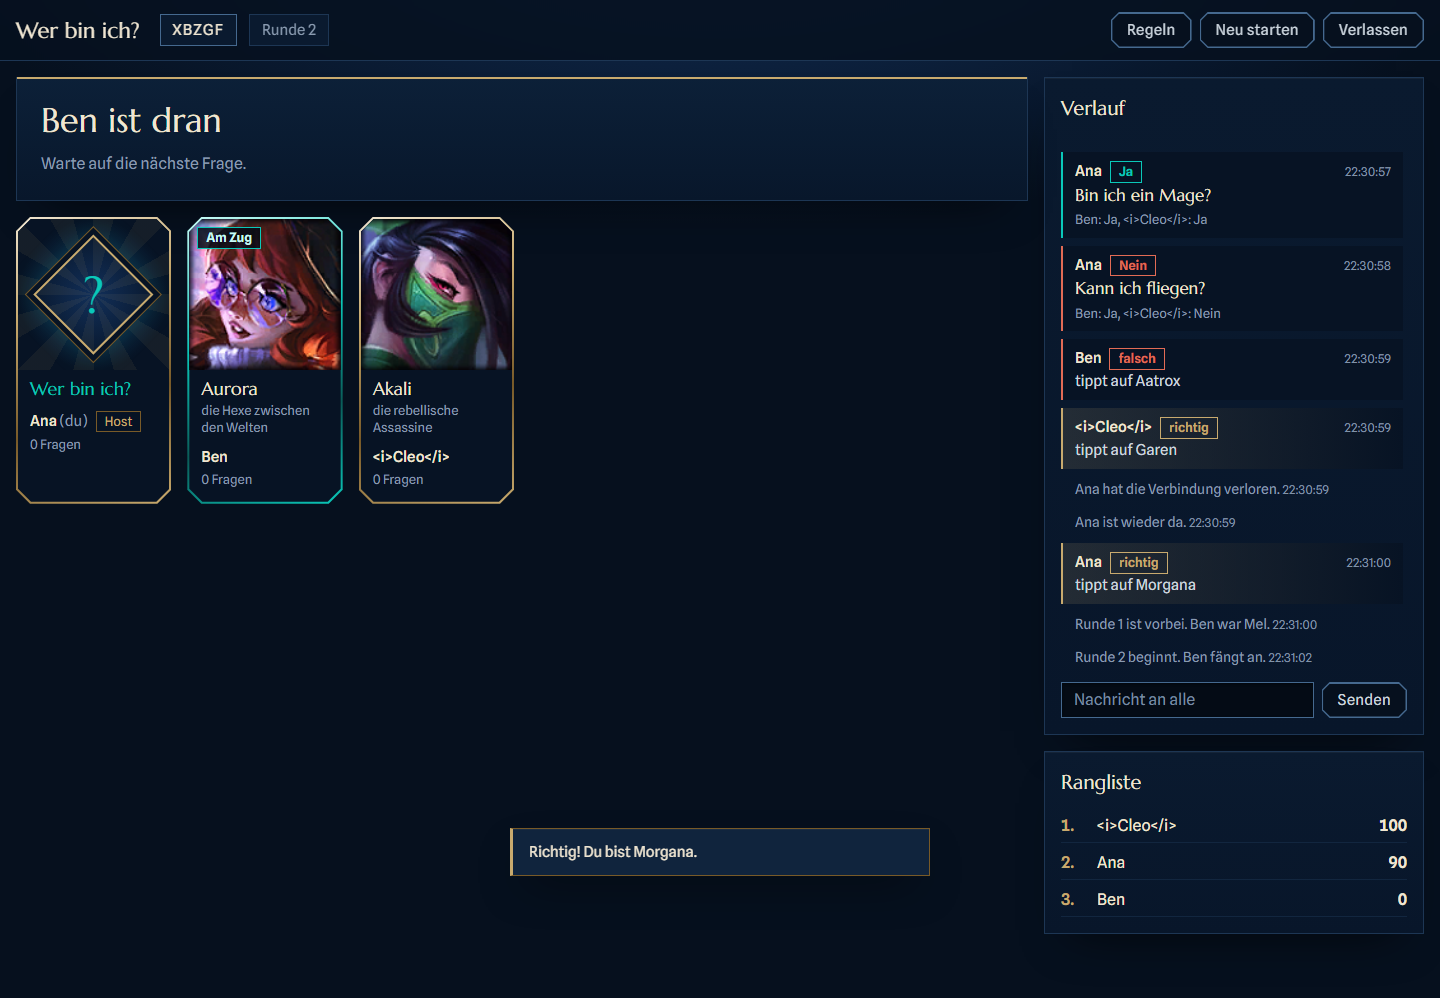
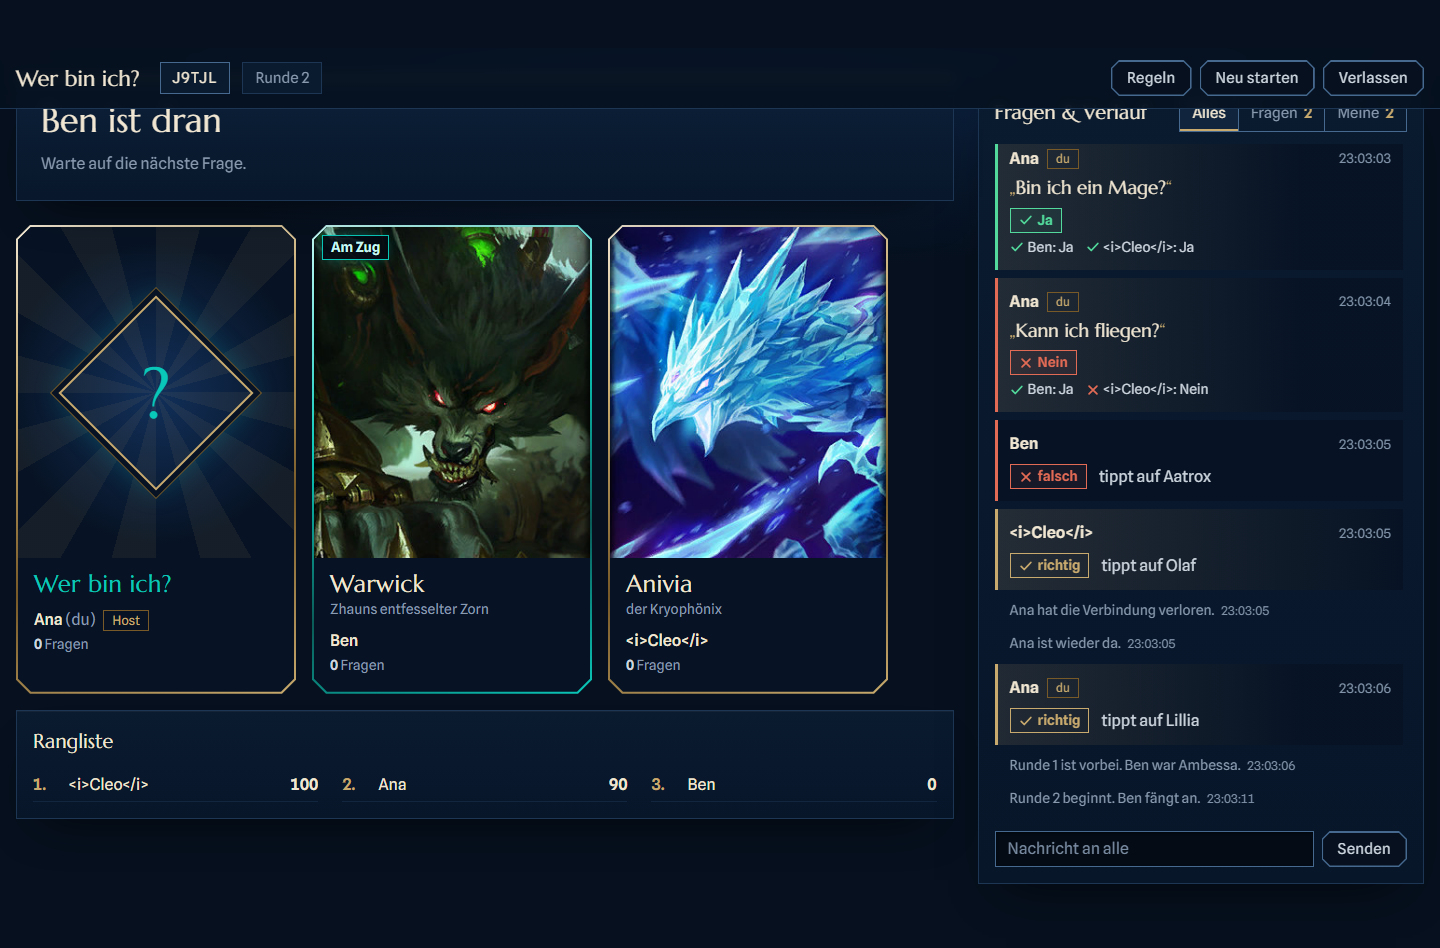
E2E-Test und Screenshots für die neue Spielseite
Test prüft zusätzlich Frage-Bühne (Status, Ergebnis), Verlaufsfilter und
Großansicht inklusive Fokus-Rückgabe; neue Screenshots 10/11 (Großansicht).
README beschreibt die Spielseite und die Artwork-Quellen.

diff --git a/test/e2e_game.py b/test/e2e_game.py
@@ -10,7 +10,8 @@ Geprüft wird u. a.:
   * falscher Tipp -> nächster, richtiger Tipp -> Platzierung + Aufdecken
   * Reconnect per Reload, Rangliste/Punkte, Neustart, Verlassen
   * XSS-Name wird als Text dargestellt, Rate Limit greift
-  * Screenshots Lobby/Spiel/Rundenende auf Desktop und Handy-Breite
+  * Frage-Bühne (Antwortstatus, Ergebnis), Verlaufsfilter, Großansicht mit Fokus-Rückgabe
+  * Screenshots Lobby/Spiel/Rundenende/Großansicht auf Desktop und Handy-Breite
 """
 import json
 import os
@@ -252,6 +253,9 @@ def main():
         expect(first.page.locator("#log li.is-yes")).to_have_count(1)
         wait_turn(players, first.id)
         check(current_id(second.page) == first.id, "Nach Ja ist derselbe Spieler weiter dran")
+        expect(first.page.locator("#q-result")).to_contain_text("Ergebnis: Ja")
+        expect(second.page.locator("#q-result")).to_contain_text(f"{third.name}: Ja")
+        check(True, "Frage-Bühne zeigt Ergebnis und Einzelantworten der letzten Frage")
 
         print("Gleichstand zählt als Nein: Zug geht weiter")
         ask(first, "Kann ich fliegen?")
@@ -259,6 +263,9 @@ def main():
         expect(o1.page.locator("#yes-btn")).to_be_visible()
         expect(cleo.page.locator("#answer-progress")).to_be_visible()
         expect(ana.page.locator("#answer-progress")).to_be_visible()
+        expect(first.page.locator("#answer-question")).to_have_text("Kann ich fliegen?")
+        expect(first.page.locator("#answer-progress")).to_contain_text("Fehlt noch (2)")
+        check(first.page.locator("#q-portrait .sealed").count() == 1, "Fragender sieht in der Bühne nur die verdeckte eigene Karte")
         shot(ana, "04-spiel-frage-desktop.png")
         shot(cleo, "05-spiel-frage-mobile.png")
         no_horizontal_scroll(cleo, "Spiel mobil")
@@ -269,6 +276,20 @@ def main():
         expect(ana.page.locator("#log li.is-no")).to_have_count(1)
         expect(ana.page.locator("#log li.is-no")).to_contain_text(f"{o1.name}: Ja")
         check(True, "Nach 1x Ja / 1x Nein ist der nächste Spieler dran (Gleichstand = Nein)")
+
+        print("Verlauf filtern")
+        fp = first.page
+        expect(fp.locator("#count-mine")).to_have_text("2")
+        fp.click('.log-filter [data-filter="mine"]')
+        expect(fp.locator('.log-filter [data-filter="mine"]')).to_have_attribute("aria-pressed", "true")
+        expect(fp.locator("#log > li.q-entry.is-mine")).to_have_count(2)
+        check(fp.locator("#log > li.is-system").count() == 0, "Filter 'Meine' zeigt nur eigene Fragen, keine Systemmeldungen")
+        others_view = next(p for p in players if p is not first).page
+        others_view.click('.log-filter [data-filter="mine"]')
+        expect(others_view.locator("#log > li.log-empty")).to_have_count(1)
+        others_view.click('.log-filter [data-filter="all"]')
+        fp.click('.log-filter [data-filter="all"]')
+        check(True, "Filter 'Meine' hebt eigene Fragen hervor, leerer Zustand bei anderen")
 
         print("Falscher Tipp")
         taken = {c["id"] for c in champ_of.values()}
@@ -314,6 +335,23 @@ def main():
         ana.page.wait_for_timeout(900)  # Aufdeck-Animation abwarten
         shot(ana, "06-rundenende-desktop.png")
         shot(cleo, "07-rundenende-mobile.png")
+
+        print("Großansicht")
+        for p, name in ((ana, "10-lightbox-desktop.png"), (cleo, "11-lightbox-mobile.png")):
+            target = next(o for o in players if o is not p)
+            zoom = p.card(target.id).locator(".card-zoom")
+            zoom.focus()
+            p.page.keyboard.press("Enter")
+            expect(p.page.locator("#lightbox")).to_be_visible()
+            expect(p.page.locator("#lb-name")).to_have_text(champ_of[target.id]["name"])
+            check(p.page.evaluate("document.activeElement.id") == "lb-close", f"{p.name}: Fokus springt in die Großansicht")
+            p.page.wait_for_timeout(900)  # Splash-Art laden
+            p.page.screenshot(path=os.path.join(OUT, name))
+            print(f"  shot {name}")
+            p.page.keyboard.press("Escape")
+            expect(p.page.locator("#lightbox")).to_be_hidden()
+            check(p.page.evaluate("document.activeElement.classList.contains('card-zoom')"), f"{p.name}: Escape schließt, Fokus zurück auf der Karte")
+        check(cleo.card(cleo.id).locator(".card-zoom").count() == 1, "Aufgedeckte eigene Karte lässt sich nach Rundenende groß ansehen")
 
         print("Runde 2 und Neustart")
         marks = {p.name: len(p.raw) for p in players}

diff --git a/README.md b/README.md
@@ -42,8 +42,23 @@ Beim Start lädt der Server die neueste Version von Riot Data Dragon
 (`api/versions.json` → `cdn/<version>/data/de_DE/champion.json`) und
 aktualisiert sie alle 12 Stunden. Ist Data Dragon nicht erreichbar, nutzt er
 den letzten Cache in `data/champions-cache.json` und sonst die mitgelieferte
-Liste `server/fallback-champions.json`. Bilder kommen direkt vom Data-Dragon-CDN;
-fehlen sie, zeigt die Karte die Initialen.
+Liste `server/fallback-champions.json`. Bilder kommen direkt vom Data-Dragon-CDN:
+die Karten zeigen das Ladebildschirm-Artwork (`cdn/img/champion/loading/<id>_0.jpg`),
+die Großansicht (Klick auf eine Karte) das Splash-Art bzw. auf dem Handy das Hochformat.
+Fehlt ein Artwork, nimmt der Client das quadratische Icon, fehlt auch das, die Initialen.
+
+## Spielseite
+
+- **Frage-Bühne:** Die offene Frage steht groß mit Porträt und Champion des Fragenden,
+  darunter der Antwortstatus („Geantwortet“ / „Fehlt noch“, Zähler und Balken). Wie die
+  anderen geantwortet haben, zeigt der Server erst nach der Auflösung; dann erscheint das
+  Ergebnis mit allen Einzelantworten, bis die nächste Frage oder ein Tipp kommt.
+- **Ja/Nein auf dem Handy:** Scrollt man zu den Karten, docken die Knöpfe samt Frage unten an.
+- **Fragen & Verlauf:** Filter Alles / Fragen / Meine mit Zählern, eigene Fragen sind markiert,
+  Ja/Nein immer mit Symbol und Text. Wer hochgescrollt hat, bekommt „Zur neuesten“.
+- **Karten:** Größe richtet sich nach der Spielerzahl (2 bis 10). Klick, Tipp oder Enter öffnet
+  die Großansicht; Escape, „Schließen“ oder ein Klick daneben schließt sie, der Fokus kehrt
+  zur Karte zurück. Die eigene Karte bleibt verdeckt, bis sie erraten ist.
 
 ## Hosting (Render, Railway o. ä.)
 
@@ -140,7 +155,8 @@ TURN_SKIP_MS=3000 PORT=3210 npm start          # in einem zweiten Terminal
 BASE_URL=http://localhost:3210 python test/e2e_game.py
 ```
 
-Der Test legt Screenshots in `screenshots/` ab.
+Der Test legt Screenshots in `screenshots/` ab (Start, Lobby, Spiel mit offener Frage,
+Rundenende, Runde 2, Großansicht; jeweils Desktop 1440 px und Handy 390 px).
 
 ## Aufbau
 
